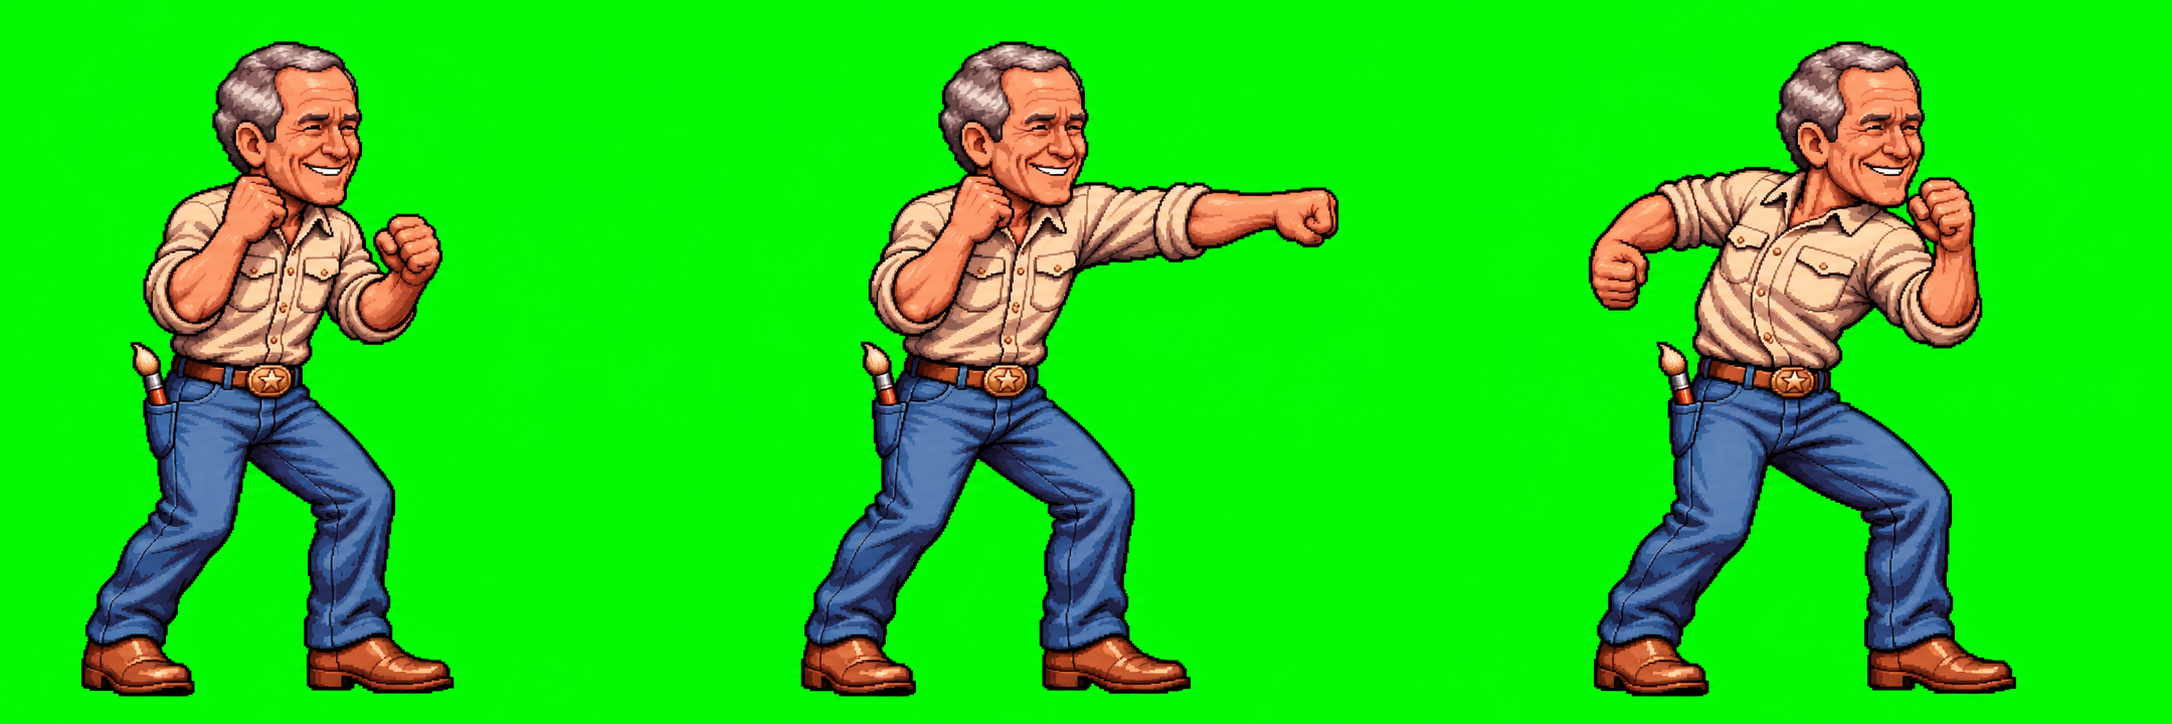
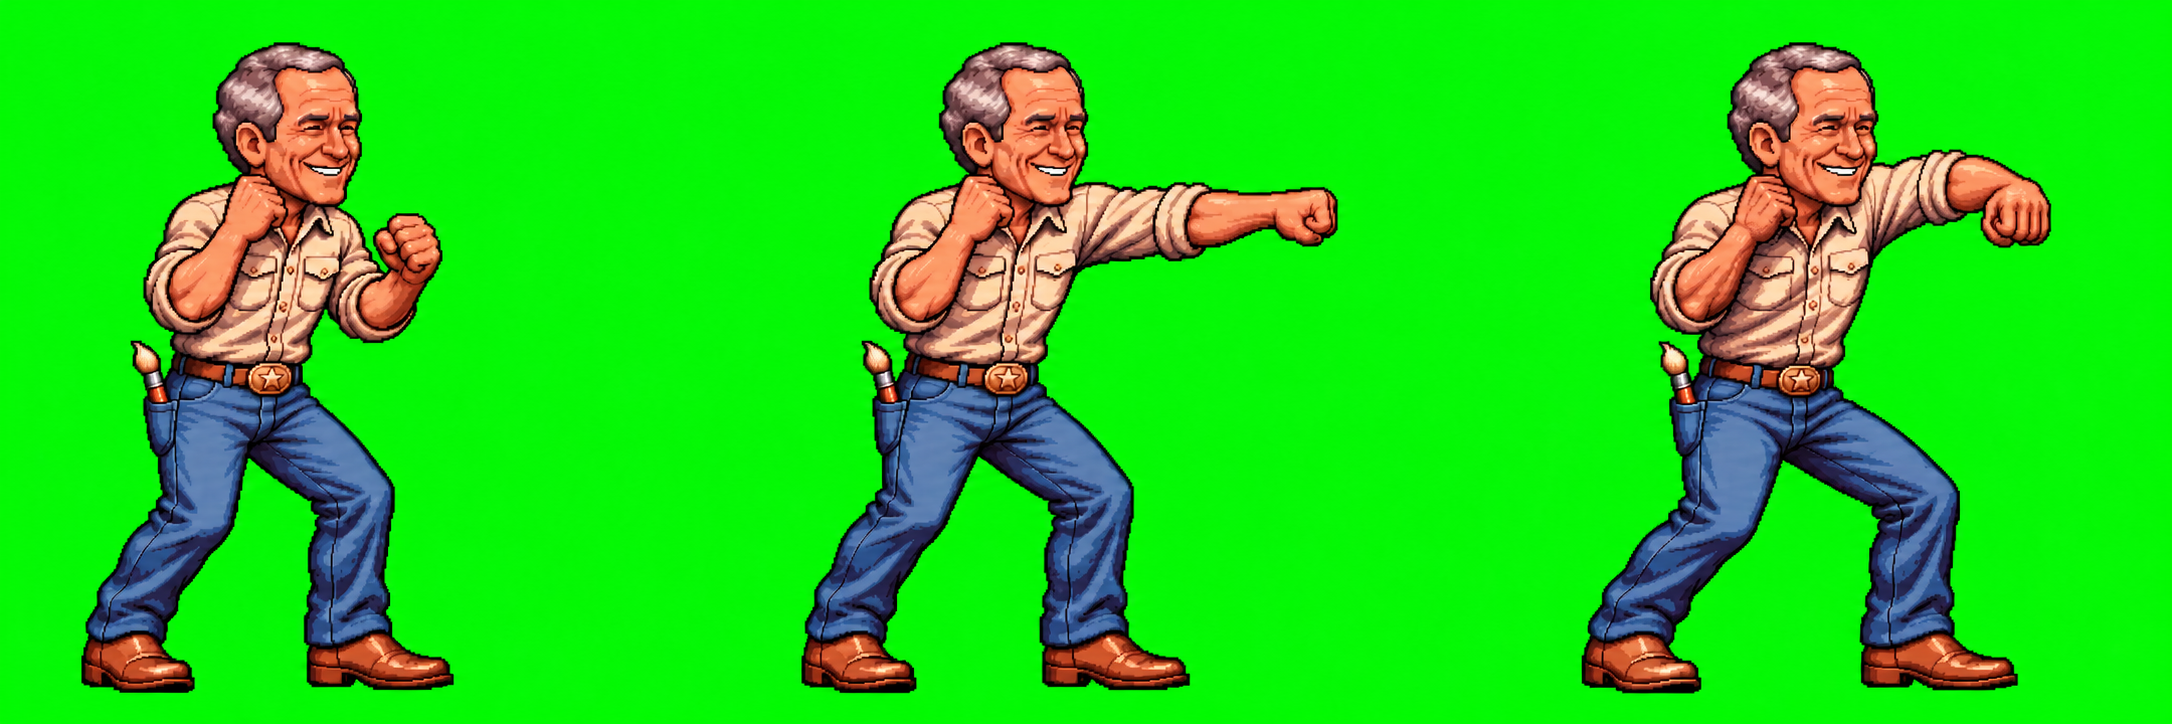
Буш: исправленный лист 3, хук вторым ударом в серии
Claude-Session: https://claude.ai/code/session_012zTuWBEuaUwbBpzq3EaXfe

diff --git a/game.js b/game.js
@@ -362,6 +362,7 @@ function noteMove(f, key) {
 
 function startAtk(f, kind, extra) {
   const m = MOVES[kind] || { start: 0.15, act: 0.1, rec: 0.3 };
+  if (kind === "punch") { f.punchAlt = G.time - (f.lastPunchAt ?? -9) < 0.9 ? !f.punchAlt : false; f.lastPunchAt = G.time; }
   f.atk = Object.assign({ kind, m, t: 0, hit: false, fired: false, crouch: f.st === "crouch" || kind === "cpunch" }, extra || {});
   setSt(f, "atk");
   if (!m.air) f.vx = 0;
@@ -1687,7 +1688,7 @@ function poseOf(f) {
     case "lose": p.key = "lose"; p.cr = 0.75; p.arms = "down"; p.lean = 0.35; break;
     case "atk": {
       const inStart = a.t < a.m.start;
-      if (a.kind === "punch") { p.key = inStart ? "punch_0" : "punch"; p.arms = inStart ? "wind" : "punch"; p.lean = inStart ? -0.1 : 0.2; }
+      if (a.kind === "punch") { p.key = inStart ? "punch_0" : (f.punchAlt ? "hook" : "punch"); p.arms = inStart ? "wind" : "punch"; p.lean = inStart ? -0.1 : 0.2; }
       else if (a.kind === "kick") { p.key = a.crouch ? "ckick" : "kick"; p.legs = inStart ? "stand" : "kick"; p.cr = a.crouch ? 1 : 0; p.lean = -0.15; }
       else if (a.kind === "cpunch") { p.key = "cpunch"; p.cr = 1; p.arms = inStart ? "guard" : "punch"; }
       else if (a.kind === "akick") { p.key = "akick"; p.legs = "akick"; p.arms = "block"; }
@@ -1792,7 +1793,7 @@ function drawFighter(f) {
   ctx.globalAlpha = f.ghost ? 0.55 : f.alpha;
   ctx.scale(f.face, 1);
   const set = SPR[f.id];
-  const FALLBACK = { throw_0: "throw", punch_0: "punch", ckick: "kick", crouch_block: "block", fall: "hurt", getup: "crouch", counter: "punch", parry: "block", super_0: "super" };
+  const FALLBACK = { hook: "punch", throw_0: "throw", punch_0: "punch", ckick: "kick", crouch_block: "block", fall: "hurt", getup: "crouch", counter: "punch", parry: "block", super_0: "super" };
   let key = null;
   if (set) {
     const tries = [pose.key, FALLBACK[pose.key], pose.key.startsWith("sp_") ? "special" : null, pose.key.startsWith("walk") ? "idle" : null, "idle"];

diff --git a/sprites.js b/sprites.js
@@ -39,12 +39,17 @@ window.SPRITES = {
   },
   "punch_0": {
    "src": "assets/sprites/bush/punch_0.png",
-   "ax": 84,
+   "ax": 85,
    "ay": 281
   },
   "punch": {
    "src": "assets/sprites/bush/punch.png",
    "ax": 88,
+   "ay": 281
+  },
+  "hook": {
+   "src": "assets/sprites/bush/hook.png",
+   "ax": 98,
    "ay": 281
   },
   "counter": {

diff --git a/tools/build_sprites.py b/tools/build_sprites.py
@@ -31,7 +31,7 @@ MAP = {
     "bush": {
         "idle": ("01", 0, "feet"), "crouch": ("01", 1, "feet"), "jump": ("01", 2, "air"),
         "walk_1": ("02", 0, "feet"), "walk_2": ("02", 1, "feet"), "walk_3": ("02", 2, "feet"), "walk_4": ("02", 3, "feet"),
-        "punch_0": ("03", 0, "feet"), "punch": ("03", 1, "feet"),
+        "punch_0": ("03", 0, "feet"), "punch": ("03", 1, "feet"), "hook": ("03", 2, "feet"),
         "counter": ("04", 0, "feet"), "kick": ("04", 1, "feet"), "akick": ("04", 2, "air"),
         "cpunch": ("05", 0, "feet"), "ckick": ("05", 0, "feet"), "super_0": ("05", 1, "feet"),
         "block": ("06", 0, "feet"), "crouch_block": ("06", 1, "feet"), "hurt": ("06", 2, "feet"),
